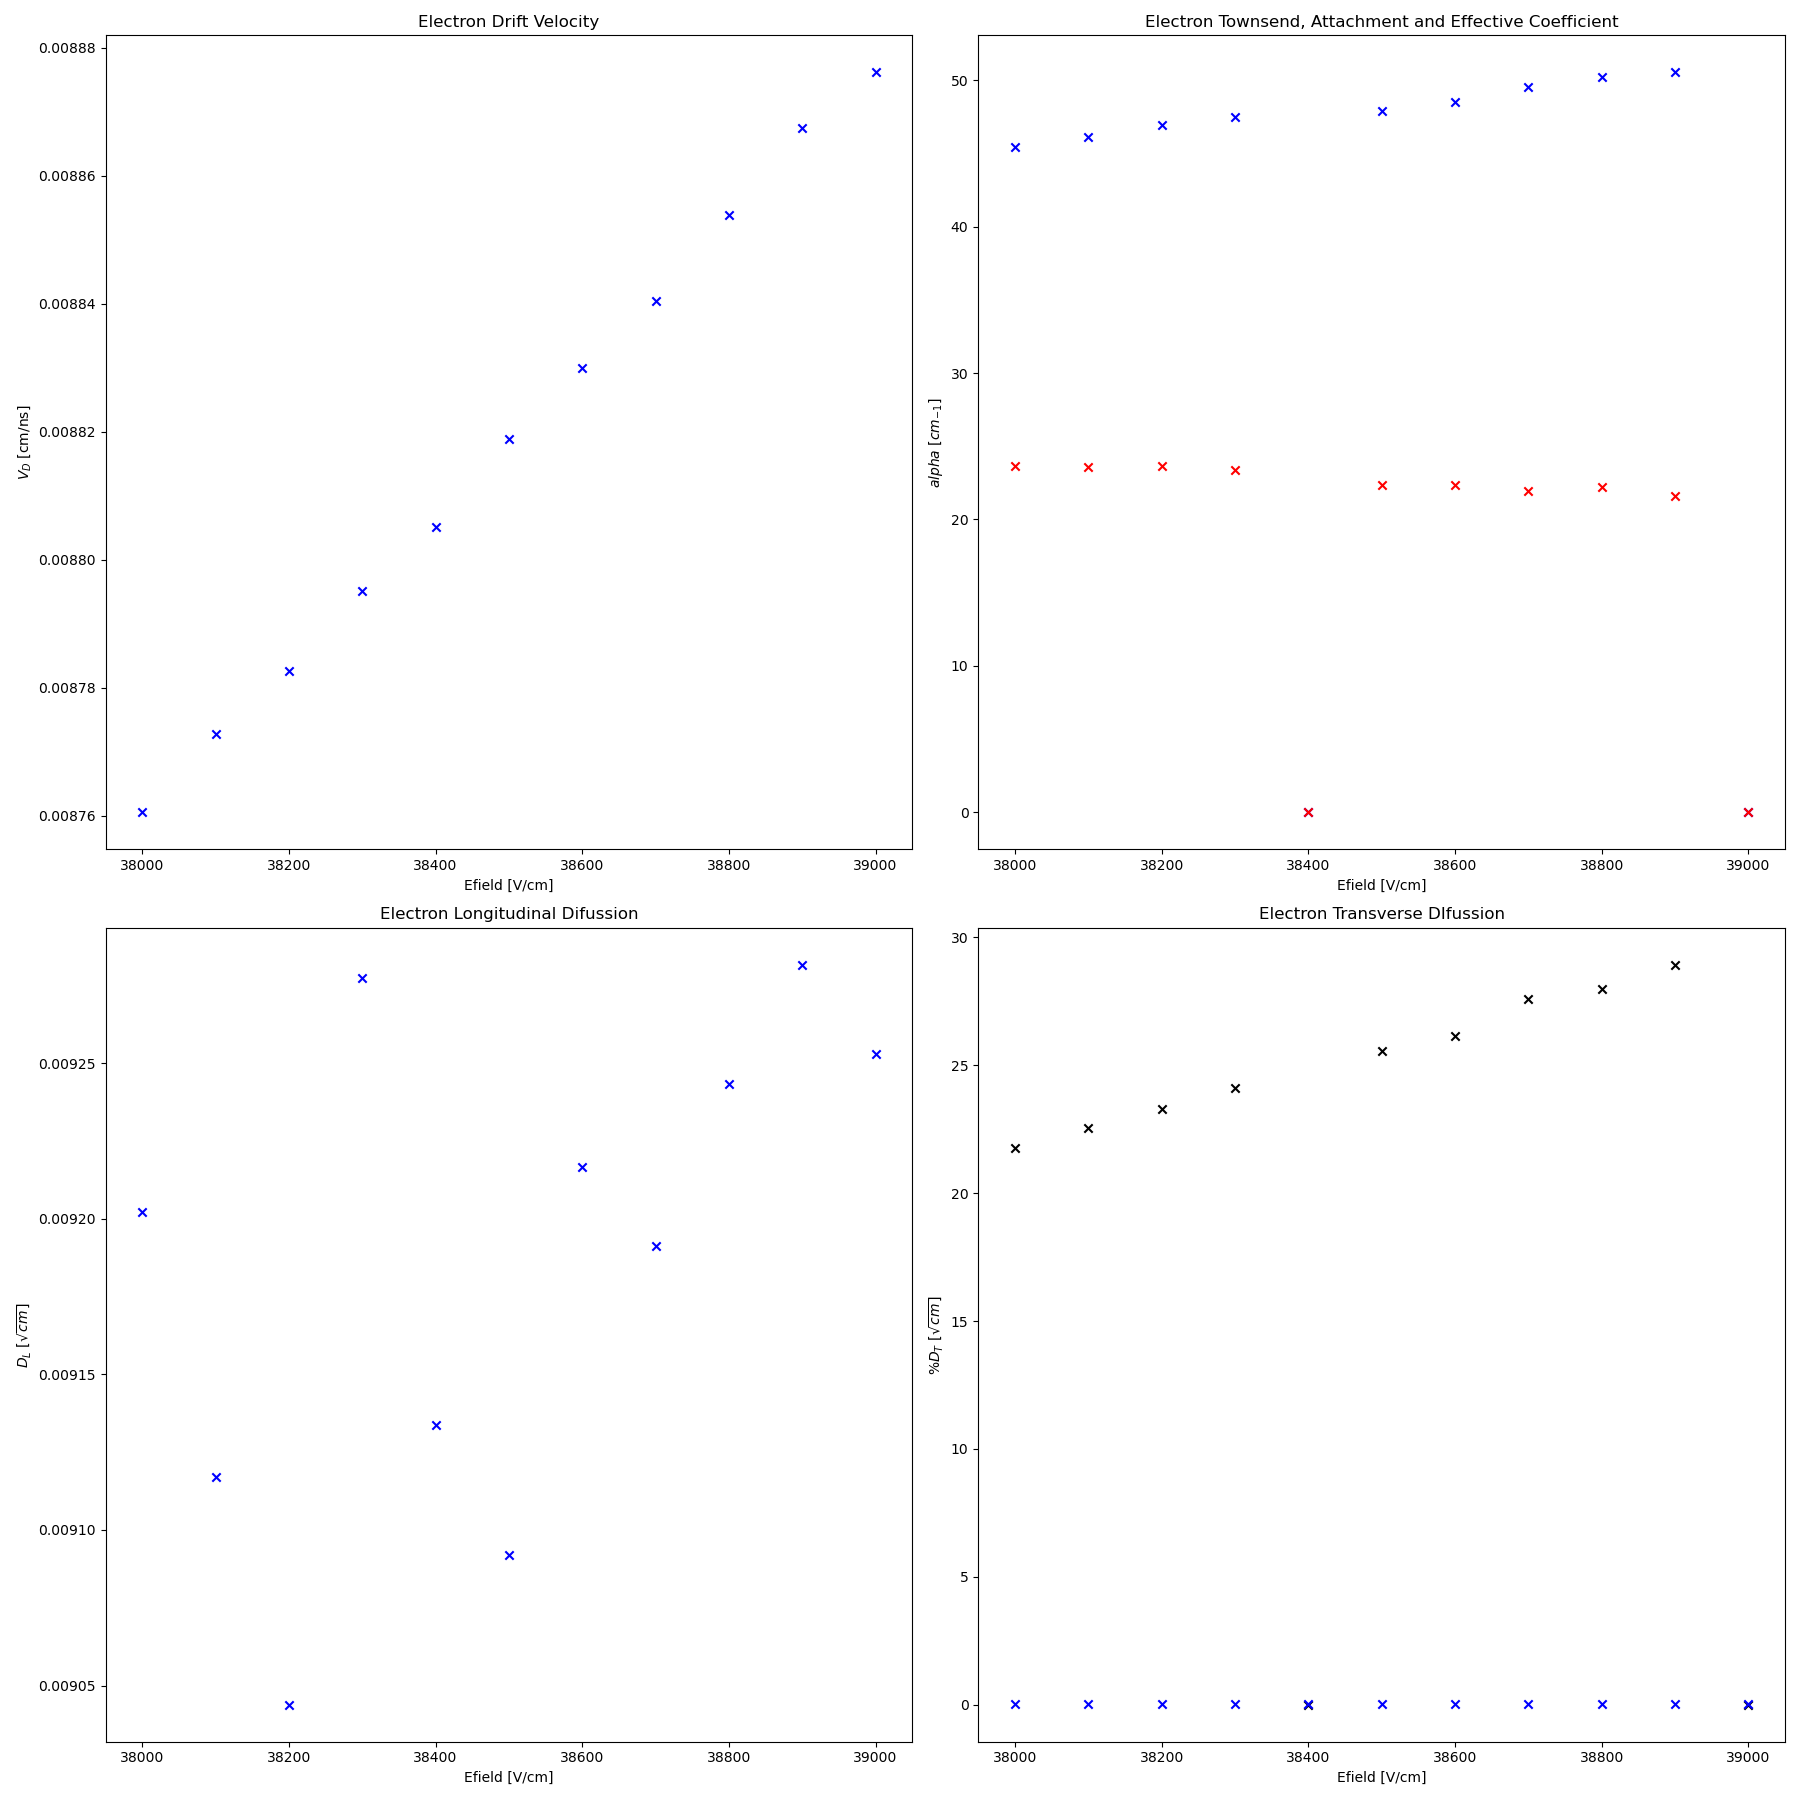
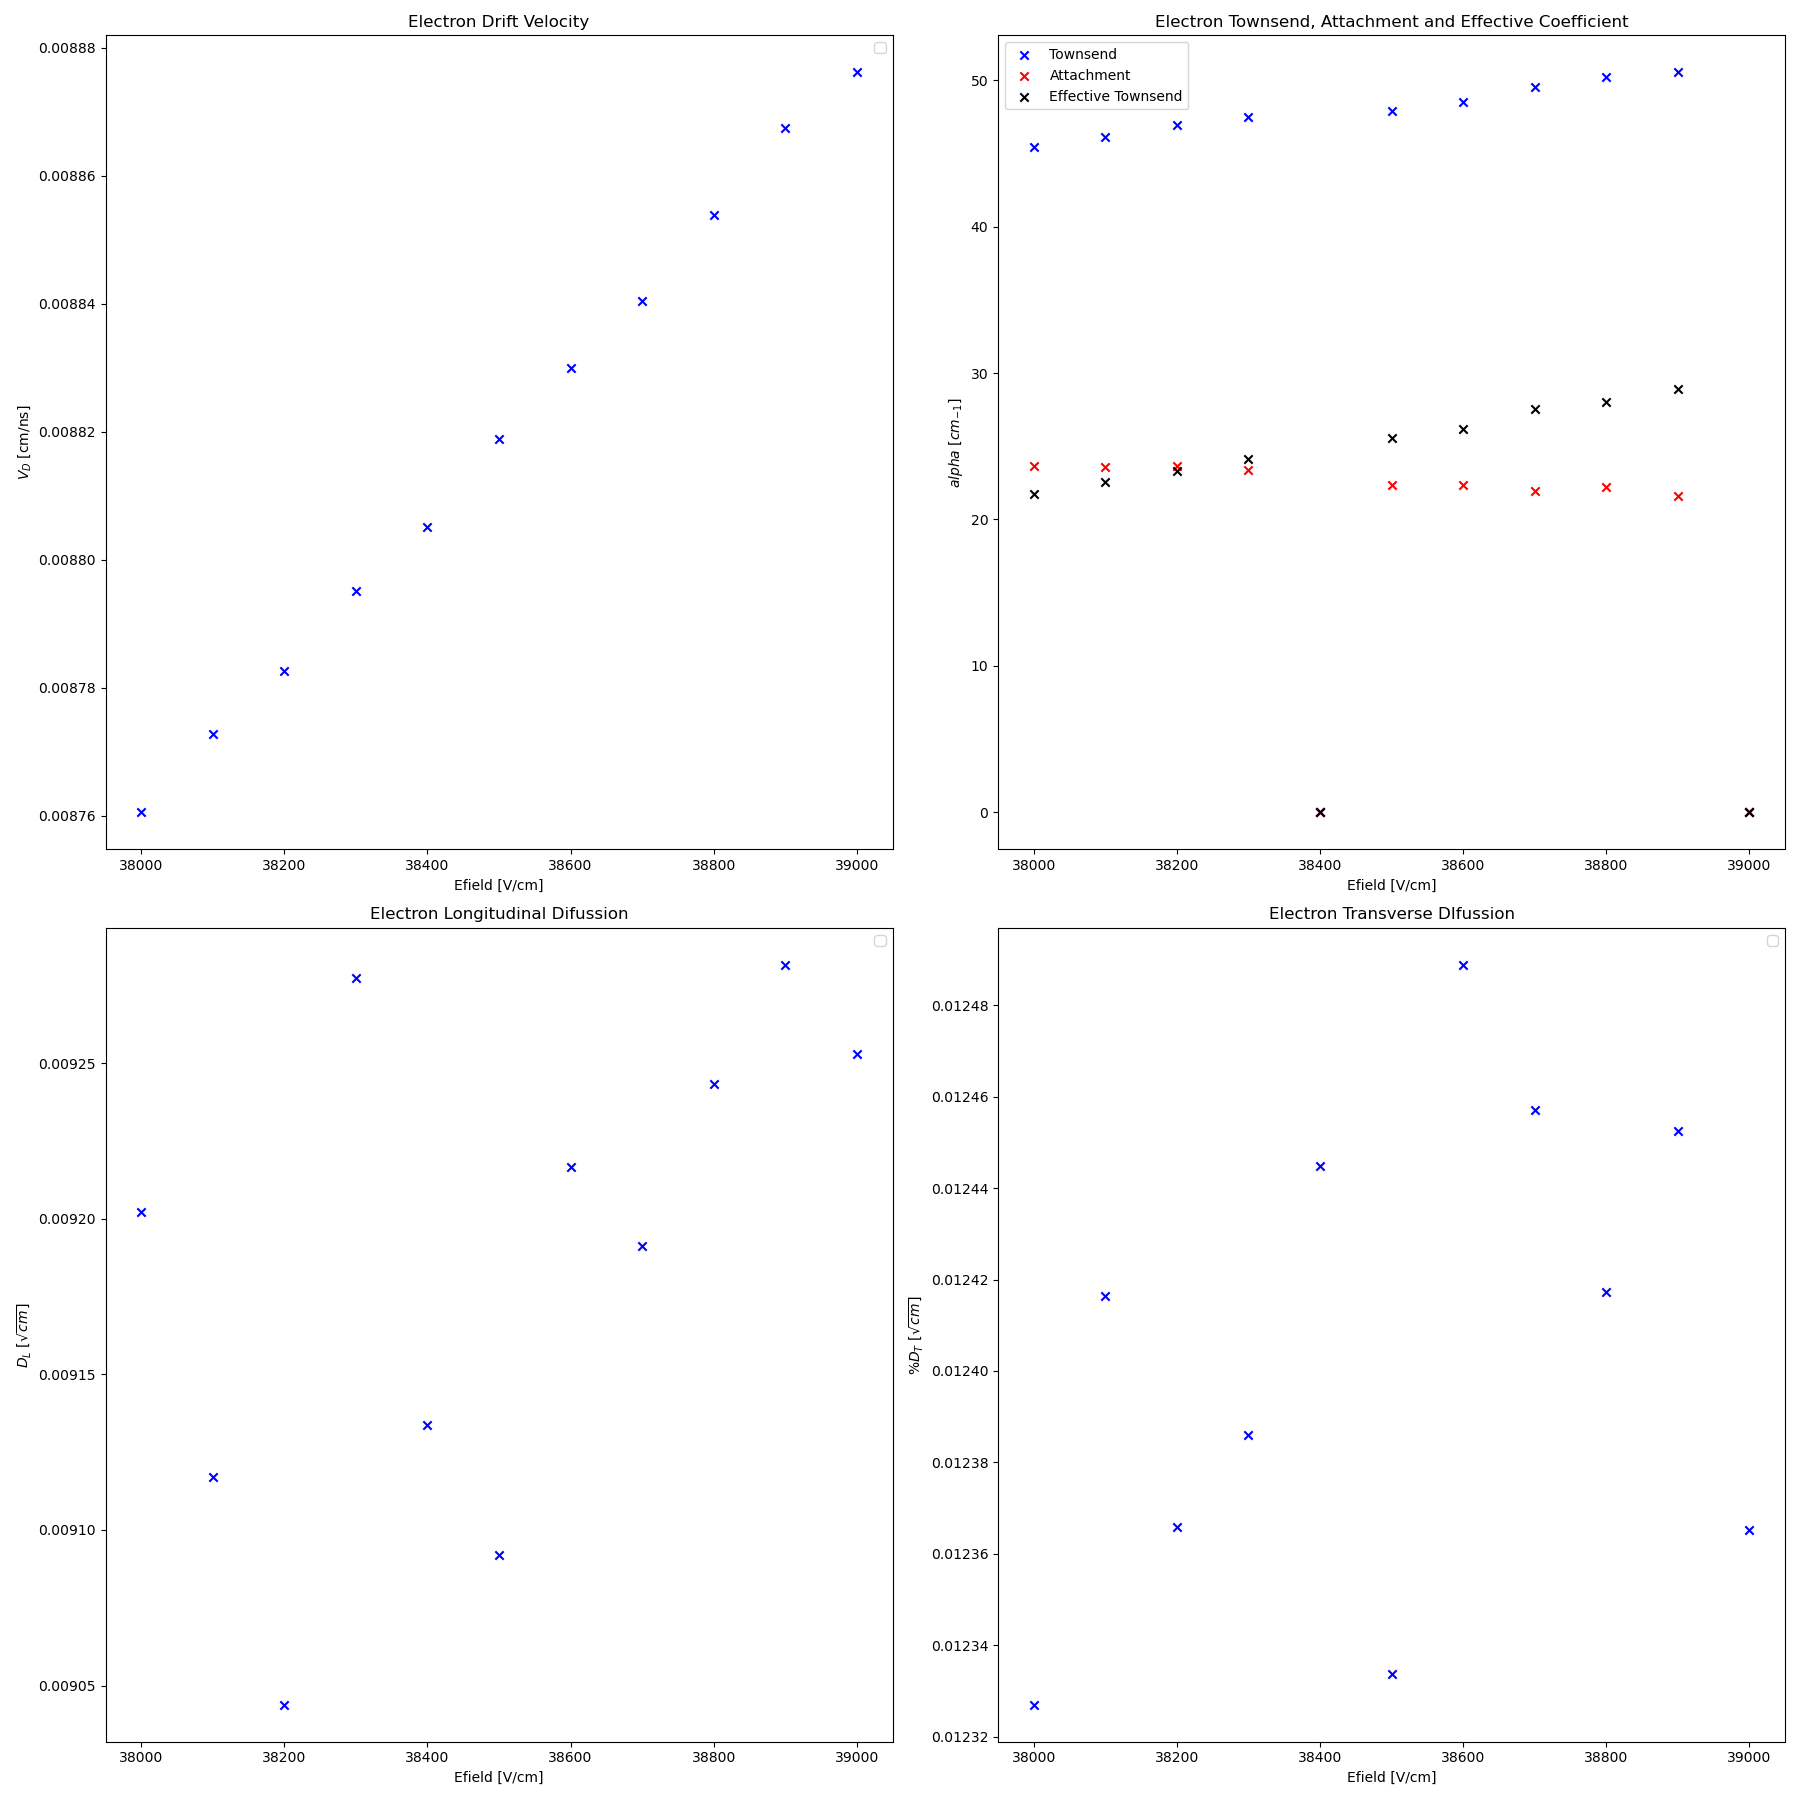
a

diff --git a/claude_workspace/Generator_GasFile/GenerateGasTable/gas_files/self.py b/claude_workspace/Generator_GasFile/GenerateGasTable/gas_files/self.py
@@ -81,25 +81,29 @@ ax[0,0].scatter(ef,V1,marker="x",color="blue")
 ax[0,0].set_title("Electron Drift Velocity")
 ax[0,0].set_xlabel(r"Efield [V/cm]")
 ax[0,0].set_ylabel(r"$V_D$ [cm/ns]")
+#ax[0,0].legend()
 
 ax[0,1].scatter(ef,alpha1,marker="x",color="blue",label="Townsend")
 ax[0,1].scatter(ef,eta1,marker="x",color="red",label="Attachment")
-ax[1,1].scatter(ef,eff_alpha1,marker="x",color="black",label="Effective Townsend")
+ax[0,1].scatter(ef,eff_alpha1,marker="x",color="black",label="Effective Townsend")
 ax[0,1].set_title("Electron Townsend, Attachment and Effective Coefficient")
 ax[0,1].set_xlabel(r"Efield [V/cm]")
 ax[0,1].set_ylabel(r"$alpha$ $[cm_{-1}]$")
+ax[0,1].legend()
 
 ax[1,0].scatter(ef,DL1,marker="x",color="blue")
 ax[1,0].set_title("Electron Longitudinal Difussion")
 ax[1,0].set_xlabel(r"Efield [V/cm]")
 ax[1,0].set_ylabel(r"$D_L$ $[\sqrt{cm}]$")
+#ax[1,0].legend()
 
 ax[1,1].scatter(ef,DT1,marker="x",color="blue")
 ax[1,1].set_title("Electron Transverse DIfussion")
 ax[1,1].set_xlabel(r"Efield [V/cm]")
 ax[1,1].set_ylabel(r"%$D_T$ $[\sqrt{cm}]$")
+#ax[1,1].legend()
 
 fig.tight_layout()
-fig.savefig("38 -39 kV transport coefficients.png")
+fig.savefig("38-39 kV transport coefficients.png")
 
 
